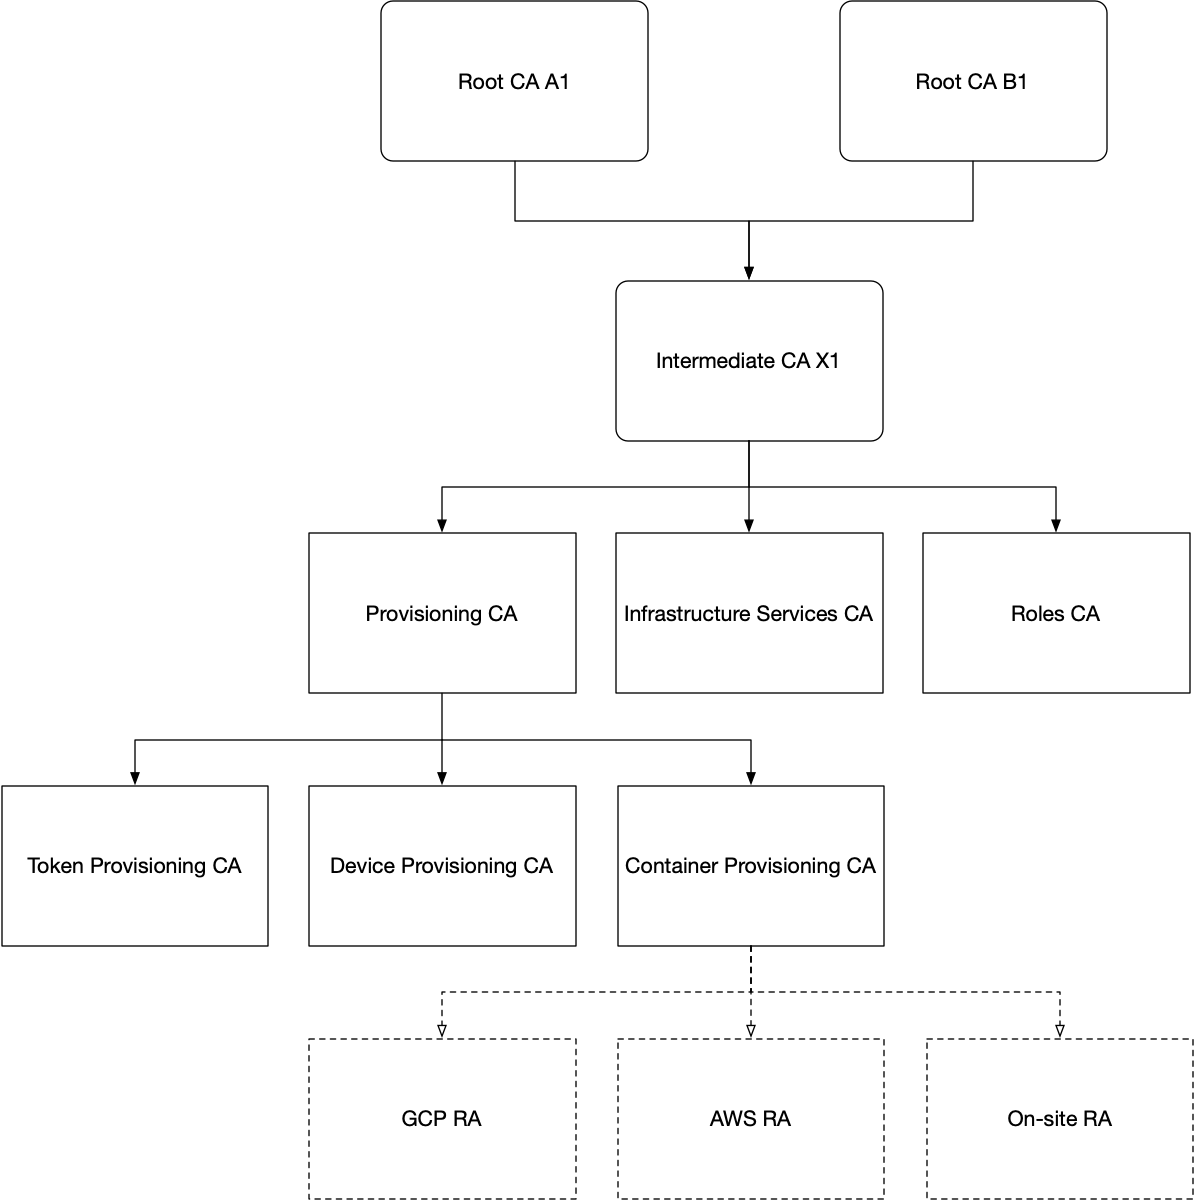
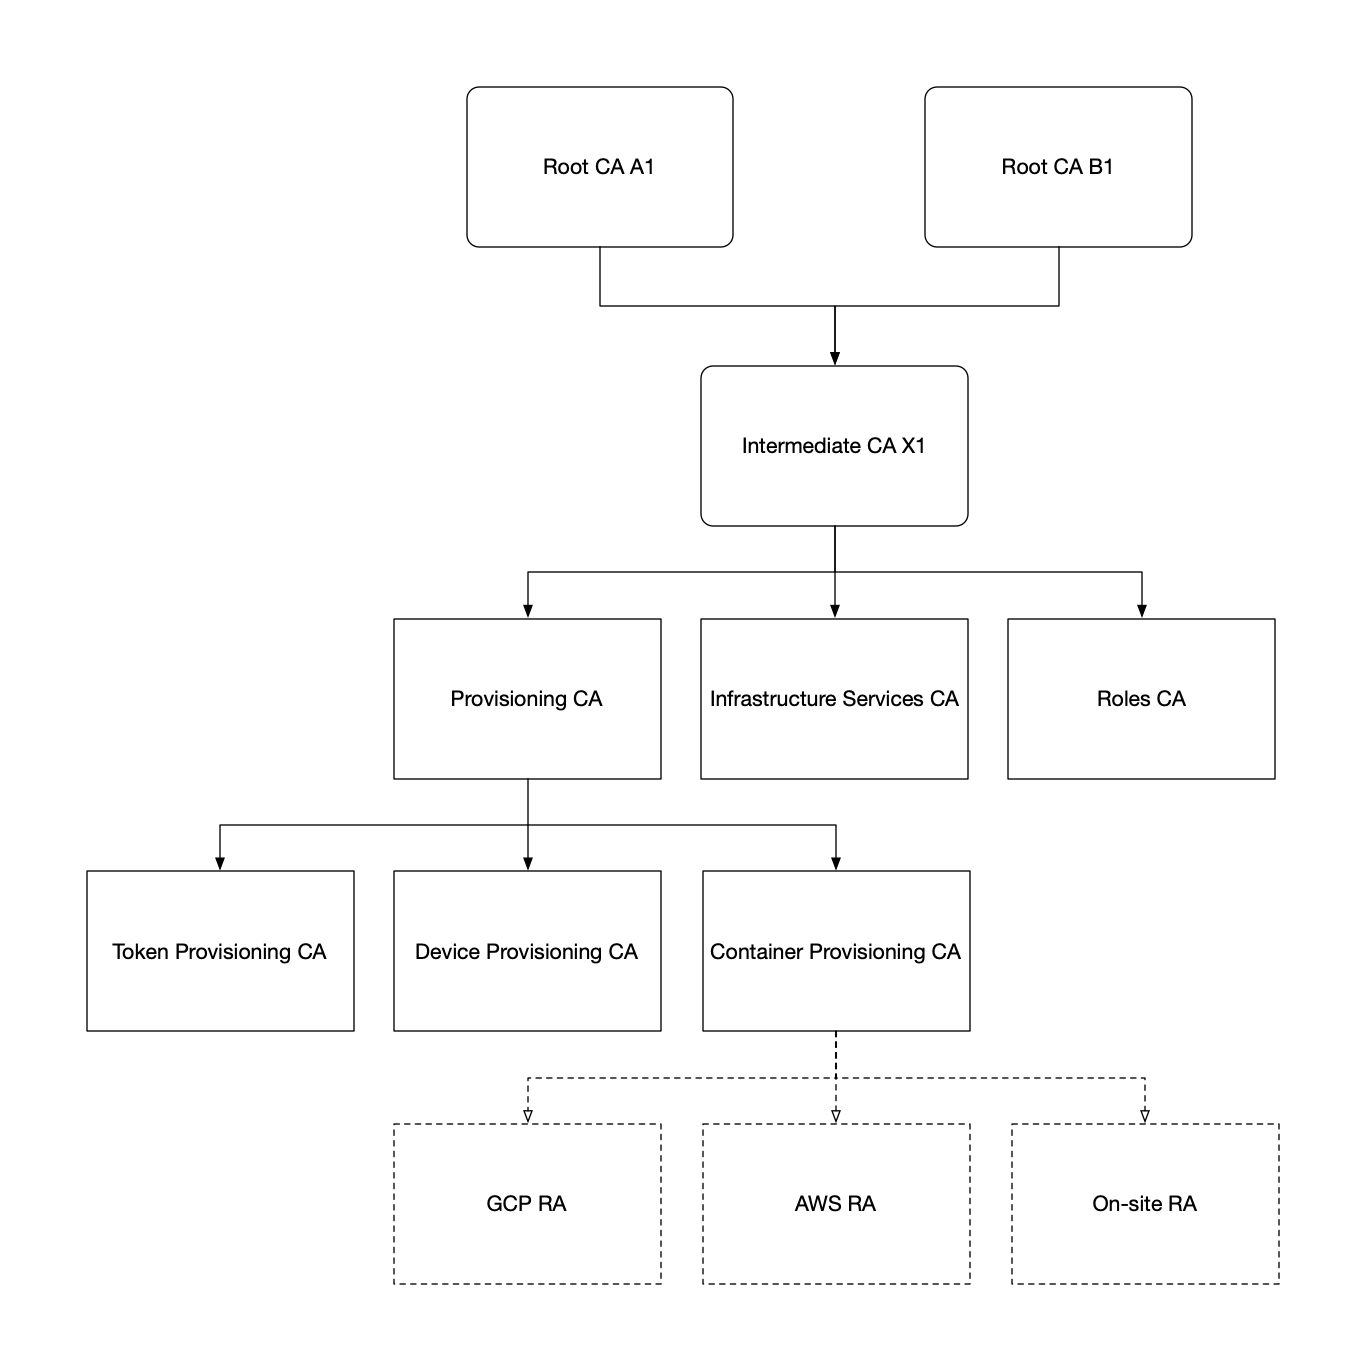
image tweaks

diff --git a/README.md b/README.md
@@ -117,7 +117,7 @@ An `Account` represents any entity that has its own security identity (in Kerber
 
 ## Certificate authorities and purposes
 
-![Diagram showing a typical arrangement of certificate authorities](https://raw.githubusercontent.com/bencrannich/iam.service/default/docs/pki.png)
+![Diagram showing a typical arrangement of certificate authorities](https://raw.githubusercontent.com/bencrannich/iam.service/default/docs/pki.png | width=100%)
 
 Certificates within a realm are routinely issued to:
 
